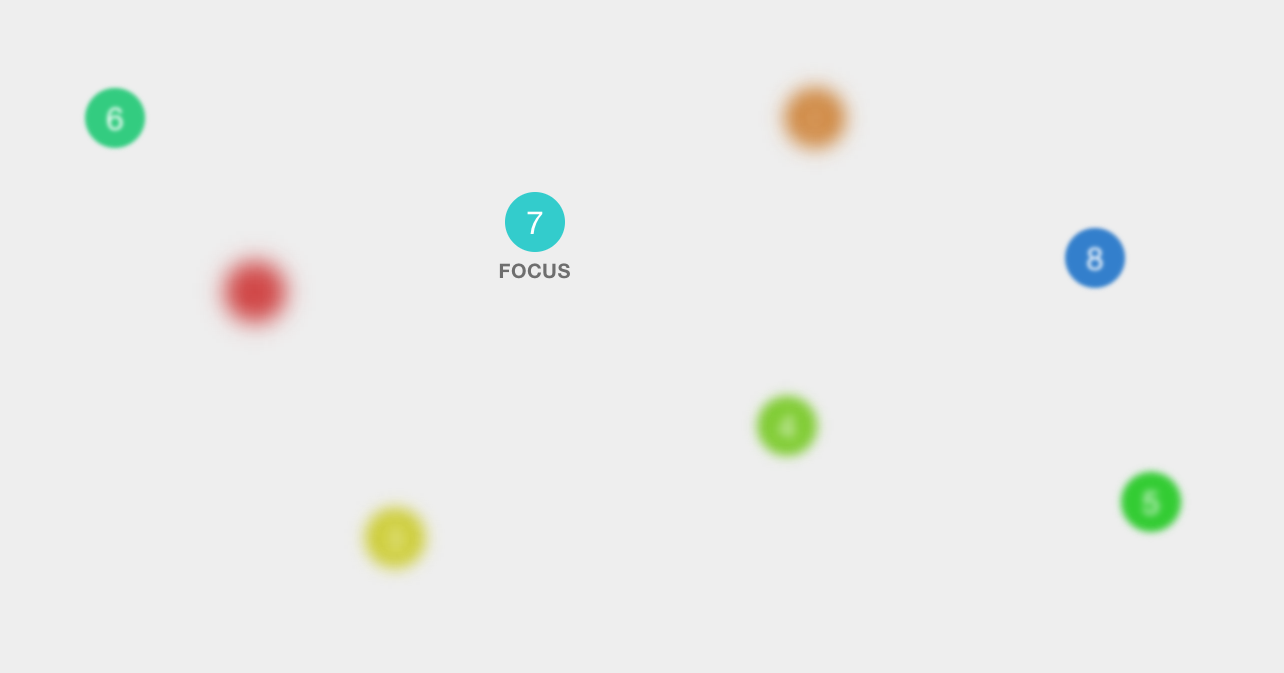
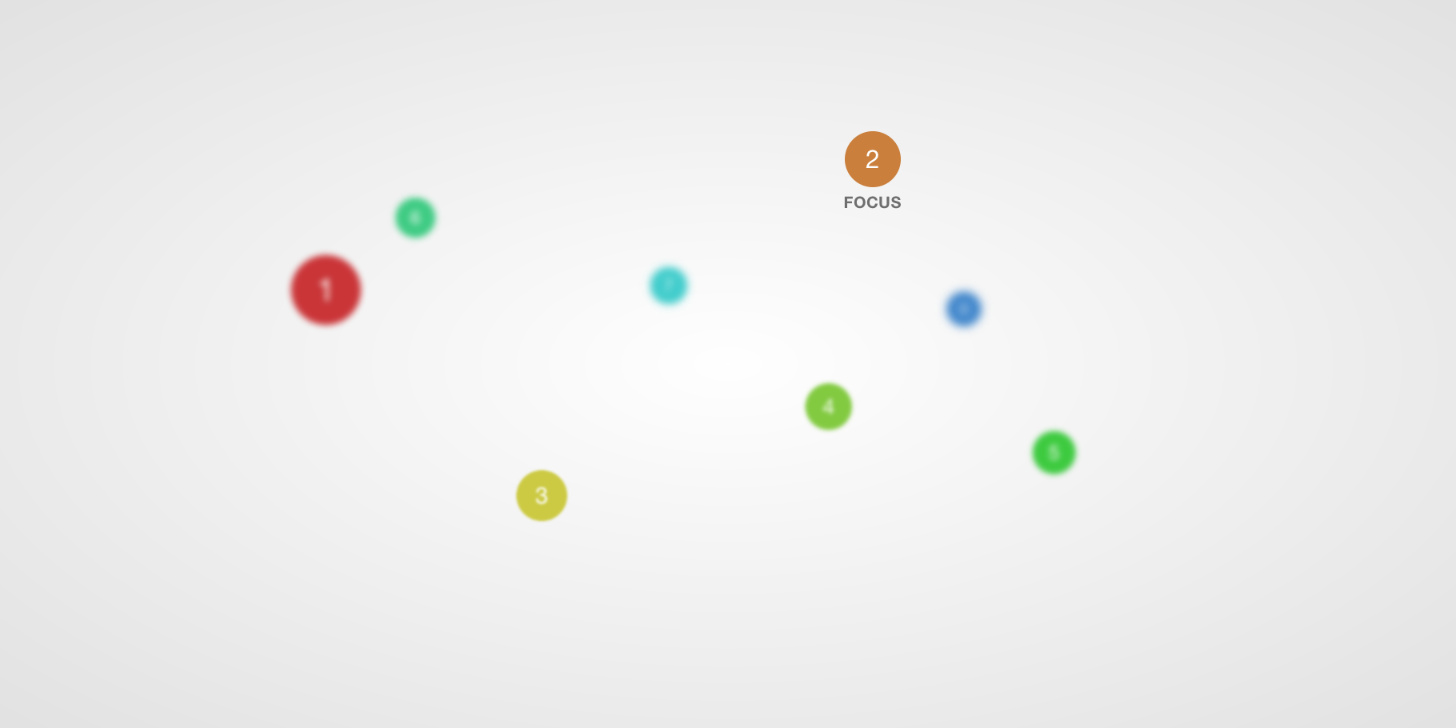
New technique! Layer blurs now determined by distance from the container focal point, powered by CSS transforms and translateZ.

diff --git a/demo.html b/demo.html
@@ -19,25 +19,29 @@
 				line-height: 1.3;
 				color: #888;
 			}
+			a {
+				text-decoration: none;
+			}
 			ol {
 				position: relative;
 				margin: 0;
 				margin-top: 1.7em;
 				padding-top: 50%;
-				background-color: #eee;
+				background: radial-gradient(white, #e2e2e2);
+				-webkit-perspective: 800px;
+				perspective: 800px;
 			}
 			li {
 				display: block;
 				position: absolute;
-				width: 30px;
-				height: 30px;
+				width: 35px;
+				height: 35px;
 				border-radius: 100%;
 				text-align: center;
-				line-height: 30px;
+				line-height: 35px;
 				color: white;
 				cursor: pointer;
-				-webkit-transform: translateZ(0); /* Chrome bugs hack */
-				transition: -webkit-filter 1s;
+				transition: all 1s;
 			}
 			li:nth-child(1) {
 				left: 20%;
@@ -48,36 +52,50 @@
 				left: 60%;
 				top: 10%;
 				background-color: hsl(30, 60%, 50%);
+				-webkit-transform: translateZ(-200px);
+				transform: translateZ(-200px);
 			}
 			li:nth-child(3) {
 				left: 30%;
 				top: 70%;
 				background-color: hsl(60, 60%, 50%);
+				-webkit-transform: translateZ(-300px);
+				transform: translateZ(-300px);
 			}
 			li:nth-child(4) {
 				left: 58%;
 				top: 54%;
 				background-color: hsl(90, 60%, 50%);
+				-webkit-transform: translateZ(-400px);
+				transform: translateZ(-400px);
 			}
 			li:nth-child(5) {
 				left: 84%;
 				top: 65%;
 				background-color: hsl(120, 60%, 50%);
+				-webkit-transform: translateZ(-500px);
+				transform: translateZ(-500px);
 			}
 			li:nth-child(6) {
 				left: 10%;
 				top: 10%;
 				background-color: hsl(150, 60%, 50%);
+				-webkit-transform: translateZ(-600px);
+				transform: translateZ(-600px);
 			}
 			li:nth-child(7) {
 				left: 40%;
 				top: 25%;
 				background-color: hsl(180, 60%, 50%);
+				-webkit-transform: translateZ(-700px);
+				transform: translateZ(-700px);
 			}
 			li:nth-child(8) {
 				left: 80%;
 				top: 30%;
 				background-color: hsl(210, 60%, 50%);
+				-webkit-transform: translateZ(-800px);
+				transform: translateZ(-800px);
 			}
 			.focused:before {
 				content: 'FOCUS';
@@ -95,11 +113,11 @@
 		</style>
 	</head>
 	<body>
-		<h1>jQuery Focal simple demo</h1>
-		<p>Best viewed in Safari. CSS blur filters in Chrome as of version 37 are still glitchy. Firefox probably wont support them properly <a href="https://developer.mozilla.org/en-US/docs/Web/CSS/filter#Browser_compatibility" target="_blank">until version 34</a>.</p>
-		<p>Click or tap a numbered item to try the effect.</p>
+		<h1><a href="https://github.com/jaydenseric/Focal">jQuery Focal</a> demo</h1>
+		<p>Click/tap a numbered item, or move the slider to try the effect. Dependant on browser <a href="http://caniuse.com/#search=css-filter">CSS filter support</a>. Most effective in Safari.</p>
+		<input type="range" min="-800" max="0" />
 		<ol>
-			<li class="focused">1</li>
+			<li>1</li>
 			<li>2</li>
 			<li>3</li>
 			<li>4</li>
@@ -112,14 +130,21 @@
 		<script src="jquery.focal.js"></script>
 		<script>
 			$(function() {
-				$('.focused').focalPoint();
+				var $container = $('ol');
+				// Enable click to focus
 				$('li').click(function() {
-					$(this).focalPoint({
-						callback: function() {
-							$(this).addClass('focused').siblings().removeClass('focused');
-						}
-					});
+					var $layer = $(this);
+					$container.focalPoint($layer);
+					$layer.addClass('focused').siblings().removeClass('focused');
 				});
+				// Enable focus via slider
+				var $input = $('input');
+				$input.on('change', function() {
+					$container.focalPoint($(this).val());
+					$container.find('.focused').removeClass('focused');
+				});
+				// Trigger initial focus
+				$input.trigger('change');
 			});
 		</script>
 	</body>

diff --git a/jquery.focal.js b/jquery.focal.js
@@ -1,51 +1,39 @@
+// jQuery Focal: https://github.com/jaydenseric/Focal
 (function($) {
-
-	// Sets the focus layer within a container
-	$.fn.focalPoint = function(options) {
-
+	// Sets the focal point within a container
+	$.fn.focalPoint = function(point, options) {
+		var $container = this;
 		// Defaults
 		var config = $.extend({
-			maxBlur:	8,
-			callback:	undefined
+			minZ	: 0,
+			maxZ	: 1000,
+			maxBlur	: 8
 		}, options);
-
-		// Derived
-		var	$layer		= this,
-			$foreground	= $layer.prevAll(),
-			$background	= $layer.nextAll(),
-			blurStep	= config.maxBlur / ($foreground.length + 1 + $background.length);
-
-		// Sets CSS blur filter cross-browser
-		function blur($layer, blur) {
-			var value = 'blur(' + blur + 'px)';
-			$layer.css({
-				'-webkit-filter':	value,
-				'filter':			value
+		// Gets an element's translateZ
+		function getTranslateZ($element) {
+			var transform = $element.css('transform');
+			if (transform == 'none') return 0;
+			return parseInt(transform.split(',')[14]);
+		}
+		// Sets a cross-browser CSS filter blur
+		function blur($element, amount) {
+			var value = 'blur(' + amount + 'px)';
+			$element.css({
+				'-webkit-filter'	: value,
+				'filter'			: value
 			});
 		}
-
-		// Sets gradual blur on layers
-		function blurLayers($layers) {
-			$layers.each(function(index) {
-				blur($(this), blurStep * (index + 1));
-			});
-		}
-
-		// Blur foreground layers
-		blurLayers($foreground);
-
-		// Sharpen focus layer
-		blur($layer, 0);
-
-		// Blur background layers
-		blurLayers($background);
-
-		// Run optional callback
-		if (typeof config.callback === 'function') config.callback.call($layer);
-
-		// jQuery chaining
-		return $layer;
-
+		// Get focus point (may be supplied as a number or jQuery object)
+		var focusZ = $.isNumeric(point) ? point : getTranslateZ(point);
+		// Blur layers according to their distance from the focal point
+		$container.children().each(function() {
+			var	$layer			= $(this),
+				layerZ			= getTranslateZ($layer),
+				distance		= Math.abs(focusZ - layerZ),
+				blurIntensity	= distance / (config.maxZ - config.minZ);
+			blur($layer, blurIntensity * config.maxBlur);
+		});
+		// Allow chaining
+		return $container;
 	};
-
 }(jQuery));

diff --git a/README.md b/README.md
@@ -1,50 +1,50 @@
 # jQuery Focal
 
-Simulates a camera focal point on a layer in a container using CSS blur filters.
+Simulates a camera focus within a 3D CSS `transform` powered scene, by blurring layers (using CSS filters) according to proximity to the focal point (determined via `translateZ` values).
 
 ## Demo
 
 Try out `demo.html` [via RawGit](http://rawgit.com/jaydenseric/Focal/master/demo.html).
 
-<img src="screenshot.png" alt="jQuery Focal in Safari screenshot" width="642" />
+<img src="screenshot.png" alt="Screenshot of the jQuery Focal demo in Safari" width="728" />
 
 ## Browser support
 
-- Safari
-- Chrome
+- Chrome 18+
+- Safari 6+
+- Firefox 35+
+- Opera 15+
 
-Dependant on [browser support for CSS filters](http://caniuse.com/#feat=css-filters), specifically `blur()`.
+Dependant on [CSS filter support](http://caniuse.com/#feat=css-filters), specifically `blur()`.
 
-Works beautifully in Safari. Transitioning filters in Chrome flickers as at version 37. Firefox probably wont support filters properly [until version 34](https://developer.mozilla.org/en-US/docs/Web/CSS/filter#Browser_compatibility). IE for now is an epic fail on `filter` standards, although support may be achieved by adding propriety syntax.
+Works fine in Chrome and beautifully in Safari. Firefox won't support filters by default [until version 35](https://developer.mozilla.org/en-US/docs/Web/CSS/filter#Browser_compatibility). IE is a bummer as usual, although Microsoft says [it's on the way](https://status.modern.ie/filters).
 
 ## Usage
 
 Refer to `demo.html` for a working example.
 
-In the HTML, wrap your scene layers in a container.
+In the HTML, create a container and apply a CSS `perspective` in pixels.
 
-Set a layer as the focal point:
+Add scene layers to the container with varying CSS `transform` `translateZ` values. Scene layers must be child to the container as nested transforms are not yet supported.
 
-```javascript
-$('#layer').focalPoint();
-```
-
-Again, with options:
-
-```javascript
-$('#layer').focalPoint({
-	maxBlur: 10, // The blurriest near and far layers may appear
-	callback: function() {
-		// Do stuff
-	}
-});
-```
-
-If you would like changes to the focal point to transition, apply these styles to all layers:
+If desired, set a transition for the blur on all layers:
 
 ```css
-.layer {
-	-webkit-transform: translateZ(0); /* Chrome bugs hack */
-	transition: -webkit-filter 1s;
+#container > * {
+	transition: all 1s;
 }
+```
+
+To set a container's focal point on a layer with the id `layer-1`:
+
+```javascript
+$('#container').focalPoint($('#layer-1'));
+```
+
+Again, setting the `maxBlur` option (the blurriest near and far layers may appear) a bit sharper than default:
+
+```javascript
+$('#layer').focalPoint($('#layer-1'), {
+	maxBlur: 5
+});
 ```
